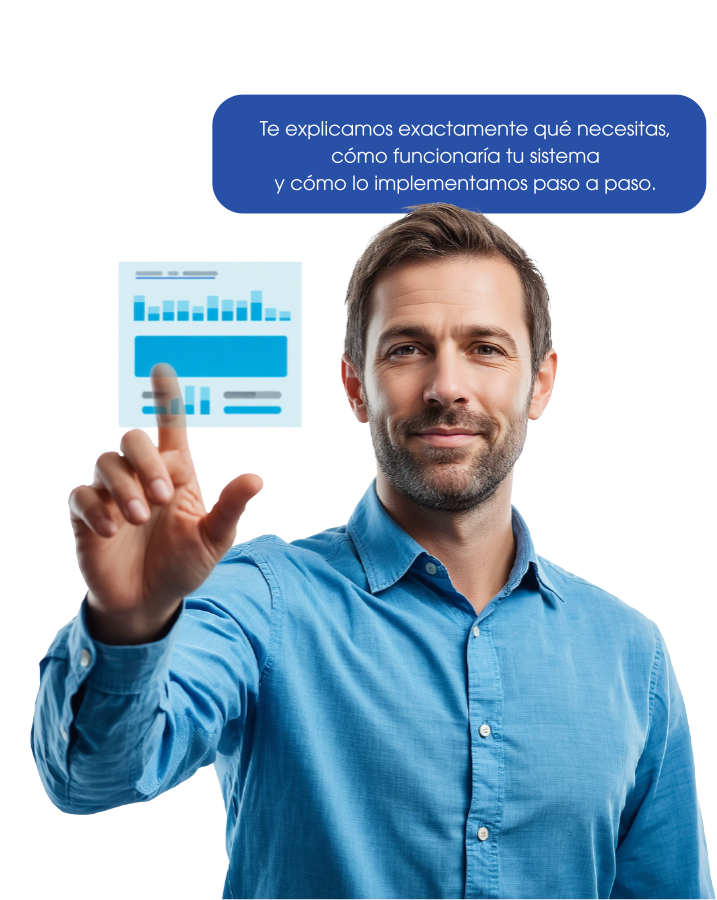
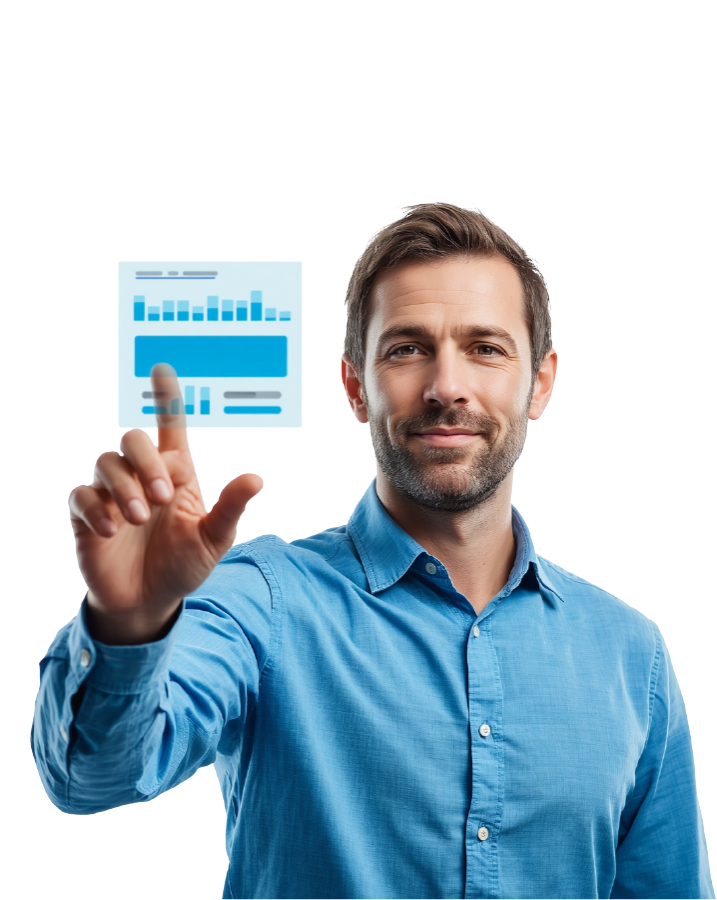
update

Changed region(s): [[0.2762, 0.0933, 1.0, 0.2489]]

diff --git a/index.html b/index.html
@@ -14,6 +14,91 @@
   <link rel="stylesheet" href="https://cdn.jsdelivr.net/npm/bootstrap-icons@1.11.3/font/bootstrap-icons.min.css">
   <!-- Custom CSS -->
   <link rel="stylesheet" href="css/style.css">
+  <style>
+    .btn-cta-hero:hover {
+      background-color: white !important;
+      color: #2a3b7e !important;
+      transition: all 0.3s ease;
+    }
+
+    .benefit-card {
+      position: relative;
+      cursor: pointer;
+      perspective: 1000px;
+      height: 100%;
+      min-height: 300px;
+      border-radius: 50px;
+      overflow: hidden;
+    }
+
+    .benefit-card-inner {
+      position: relative;
+      width: 100%;
+      height: 100%;
+      transition: transform 0.6s;
+      transform-style: preserve-3d;
+      border-radius: 50px;
+    }
+
+    .benefit-card:hover .benefit-card-inner {
+      transform: rotateY(180deg);
+    }
+
+    .benefit-title,
+    .benefit-description {
+      position: absolute;
+      width: 100%;
+      height: 100%;
+      backface-visibility: hidden;
+      display: flex;
+      flex-direction: column;
+      align-items: center;
+      justify-content: center;
+      text-align: center;
+      padding: 2rem;
+    }
+
+    .benefit-title {
+      gap: 1rem;
+    }
+
+    .benefit-title h6 {
+      font-size: 1.8rem !important;
+      margin: 0;
+    }
+
+    .benefit-title i {
+      font-size: 3.5rem;
+    }
+
+    .benefit-description {
+      transform: rotateY(180deg);
+      padding: 1.5rem;
+    }
+
+    .benefit-description p {
+      margin: 0;
+      font-size: 1.4rem;
+      line-height: 1.6;
+    }
+
+    /* Colores sólidos para cada tarjeta */
+    .bg-secondary-color {
+      background: #4a8ed9 !important;
+    }
+
+    .bg-secondary-color-2 {
+      background: #4a8ed9 !important;
+    }
+
+    .bg-primary-color {
+      background: #2a5db8 !important;
+    }
+
+    .bg-primary-color-2 {
+      background: #2a5db8 !important;
+    }
+  </style>
 </head>
 
 <body>
@@ -201,38 +286,32 @@
           <!-- Left Content -->
           <div class="col mt-md-5 d-flex flex-column gap-4" data-aos="fade-up" data-aos-easing="linear"
             data-aos-delay="500" data-aos-duration="1000" style="text-align: center;">
-            <h1 class="text-white" style="font-weight: 900; font-size: 2rem; line-height: 1.3;">
-              ¿Sigues operando tu empresa con Excel, sistemas parchados...<br>o un software que nunca quedó bien?
+            <h1 class="text-white" style="font-weight: 400; font-size: 3.5rem; line-height: 1.3;">
+              <strong>Diseñamos software</strong> 100% a la medida de tu operación, <strong>sin inversión
+                inicial</strong> y listo para crecer contigo.
             </h1>
 
-            <div class="p-4" style="background-color: #ADD8E6; border-radius: 8px;">
-              <p class="mb-0"
-                style="color: #000; font-weight: 700; font-size: 1.8rem; line-height: 1.4; text-align: center;">
-                <strong style="font-size: 2.2rem; font-weight: 900;">Diseñamos software</strong> 100% a la medida de tu
-                operación,<br>
-                <strong style="font-size: 2.2rem; font-weight: 900;">sin inversión inicial y listo para crecer
-                  contigo.</strong>
-              </p>
-            </div>
 
-            <div class="p-4" style="background-color: #ADD8E6; border-radius: 8px;">
+
+            <div class="p-4">
               <p class="mb-0"
-                style="color: #000; font-weight: 600; font-size: 1.5rem; line-height: 1.4; text-align: center;">
-                ¿Agenda una evaluación gratuita y descubre cómo tener un sistema hecho para tu empresa, sin
-                descapitalizarte.
+                style="color: #ffffff; font-weight: 400; font-size: 2rem; line-height: 1.4; text-align: center;">
+                Te explicamos exactamente qué necesitas, como funcionaría tu sistema y cómo lo implementamos paso a
+                paso.
               </p>
             </div>
 
             <div class="d-flex gap-3 align-items-center mt-3 justify-content-center">
-              <a href="contact-us.html" class="btn btn-whatsapp">
-                <i class="bi bi-whatsapp pe-3" style="margin-right: 0;"></i>
+              <a href="contact-us.html" class="btn btn-primary-solid btn-cta-hero"
+                style="padding: 28px 60px; font-size: 1.95rem; font-weight: 600; background: #FFD700; color: #2a3b7e; border: none;">
+                <i class="button" style="margin-right: 0;"></i>
                 Agendar Asesoría Gratuita</a>
             </div>
           </div>
 
           <!-- Right Image -->
           <div class="col position-relative text-center pt-lg-4 pt-xl-3">
-            <div class="position-relative" style="margin-top: -40px;">
+            <div class="position-relative" style="margin-top: -40px; margin-left: 60px;">
               <img src="image/Place-Holder-600x900.png" alt="Hero Professional" class="img-fluid position-relative"
                 style="z-index: 2; max-width: 150%; height: auto; transform: scale(1.3);">
             </div>
@@ -251,51 +330,67 @@
             <!-- Card 1 -->
             <div class="col" data-aos="fade-right" data-aos-easing="linear" data-aos-delay="500"
               data-aos-duration="1000">
-              <div class="bg-secondary-color text-white p-4 rounded-5 h-100 transition-hover">
-                <div class="d-flex flex-column align-items-center gap-2 mb-4 justify-content-center text-center">
-                  <i class="bi bi-currency-dollar" style="font-size: 3.5rem;"></i>
-                  <h6 class="fw-bold mb-0" style="font-size: large;">Empieza SIN<br>INVERTIR miles</h6>
+              <div class="bg-secondary-color text-white rounded-5 transition-hover benefit-card">
+                <div class="benefit-card-inner">
+                  <div class="benefit-title">
+                    <i class="bi bi-currency-dollar"></i>
+                    <h6 class="fw-bold">EMPIEZA SIN<br>INVERTIR MILES</h6>
+                  </div>
+                  <div class="benefit-description bg-secondary-color">
+                    <p>Olvídate de proyectos costosos que no sabes si van a funcionar. Empieza a pagar solo cuando tu
+                      sistema esté listo y operando.</p>
+                  </div>
                 </div>
-                <p>Olvídate de proyectos costosos que no sabes si van a funcionar. Empieza a pagar solo
-                  cuando tu sistema esté listo y operando.</p>
               </div>
             </div>
 
             <!-- Card 2 -->
             <div class="col" data-aos="fade-up" data-aos-easing="linear" data-aos-delay="500" data-aos-duration="1000">
-              <div class="bg-secondary-color-2 text-white p-4 rounded-5 h-100 transition-hover">
-                <div class="d-flex flex-column align-items-center gap-2 mb-4 justify-content-center text-center">
-                  <i class="bi bi-gear" style="font-size: 3.5rem;"></i>
-                  <h6 class="fw-bold mb-0" style="font-size: large;">Un sistema hecho<br>para TU EMPRESA</h6>
+              <div class="bg-secondary-color-2 text-white rounded-5 transition-hover benefit-card">
+                <div class="benefit-card-inner">
+                  <div class="benefit-title">
+                    <i class="bi bi-gear"></i>
+                    <h6 class="fw-bold">UN SISTEMA HECHO<br>PARA TU EMPRESA</h6>
+                  </div>
+                  <div class="benefit-description bg-secondary-color-2">
+                    <p>Nada de adaptarte a software genérico. Creamos una plataforma que se ajusta exactamente a tu
+                      operación y procesos.</p>
+                  </div>
                 </div>
-                <p>Nada de adaptarte a software genérico. Creamos una plataforma que se ajusta exactamente a
-                  tu operación y procesos.</p>
               </div>
             </div>
 
             <!-- Card 3 -->
             <div class="col" data-aos="fade-down" data-aos-easing="linear" data-aos-delay="500"
               data-aos-duration="1000">
-              <div class="bg-primary-color text-white p-4 rounded-5 h-100 transition-hover">
-                <div class="d-flex flex-column align-items-center gap-2 mb-4 justify-content-center text-center">
-                  <i class="bi bi-eye" style="font-size: 3.5rem;"></i>
-                  <h6 class="fw-bold mb-0" style="font-size: large;">EVOLUCIONA<br>sin costos extra</h6>
+              <div class="bg-primary-color text-white rounded-5 transition-hover benefit-card">
+                <div class="benefit-card-inner">
+                  <div class="benefit-title">
+                    <i class="bi bi-eye"></i>
+                    <h6 class="fw-bold">EVOLUCIONA<br>SIN COSTOS EXTRA</h6>
+                  </div>
+                  <div class="benefit-description bg-primary-color">
+                    <p>Tu negocio cambia... y tu sistema también. Agrega funciones, mejoras y ajustes sin pagar
+                      desarrollos adicionales.</p>
+                  </div>
                 </div>
-                <p>Tu negocio cambia... y tu sistema también. Agrega funciones, mejoras y ajustes sin pagar
-                  desarrollos adicionales.</p>
               </div>
             </div>
 
             <!-- Card 4 -->
             <div class="col" data-aos="fade-left" data-aos-easing="linear" data-aos-delay="500"
               data-aos-duration="1000">
-              <div class="bg-primary-color-2 text-white p-4 rounded-5 h-100 transition-hover">
-                <div class="d-flex flex-column align-items-center gap-2 mb-4 justify-content-center text-center">
-                  <i class="bi bi-rocket" style="font-size: 3.5rem;"></i>
-                  <h6 class="fw-bold mb-0" style="font-size: large;">Implementación<br>REAL</h6>
+              <div class="bg-primary-color-2 text-white rounded-5 transition-hover benefit-card">
+                <div class="benefit-card-inner">
+                  <div class="benefit-title">
+                    <i class="bi bi-rocket"></i>
+                    <h6 class="fw-bold">IMPLEMENTACIÓN<br>REAL</h6>
+                  </div>
+                  <div class="benefit-description bg-primary-color-2">
+                    <p>Trabajamos contigo en un MVP funcional para que empieces a operar rápido y escales sobre algo que
+                      ya está generando valor.</p>
+                  </div>
                 </div>
-                <p>Trabajamos contigo en un MVP funcional para que empieces a operar rápido y escales sobre
-                  algo que ya está generando valor.</p>
               </div>
             </div>
 
